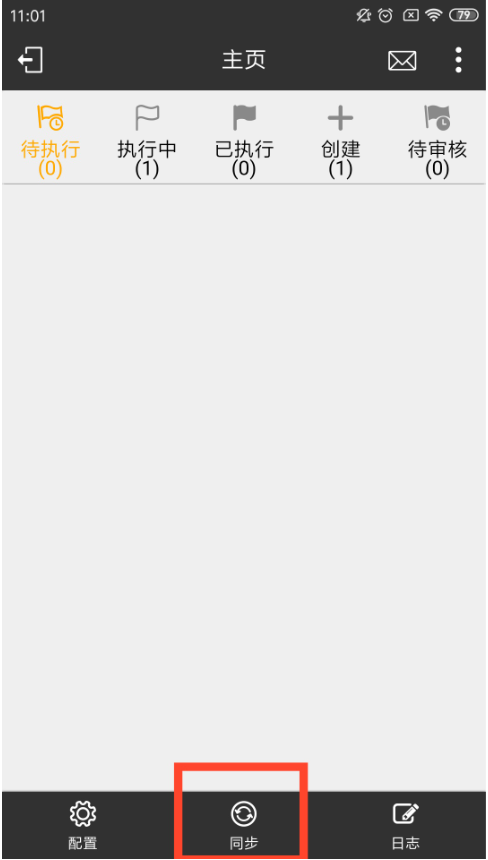
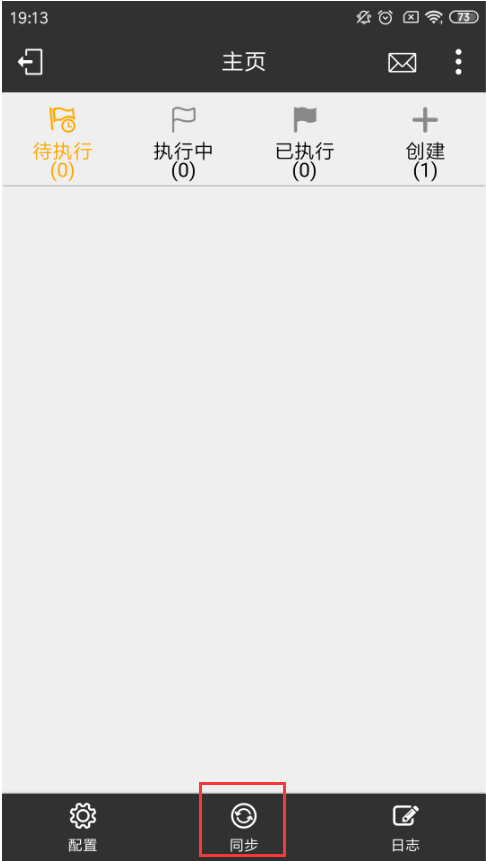
终端用户手册

Changed region(s): [[0.0309, 0.0, 1.0, 0.2116], [0.0, 0.8767, 1.0, 1.0]]

diff --git a/用户使用手册/终端/同步.md b/用户使用手册/终端/同步.md
@@ -1,10 +1,9 @@
 # 同步
 
-* 登陆完点击同步，拿到作业组
+* 登陆后如有待执行的作业组，会有提醒，点击同步，即可拿到要执行的作业组
+  ![zhongduan](./images/zhongduan11.png)
+  ![zhongduan](./images/zhongduan12.png)
 
-  ![zhongduan](./images/zhongduan6.png)
-  ![zhongduan](./images/zhongduan7.png)
-
-* 全部完成之后，有网络的情况下，选择完成并同步，无网络情况下选择完成，到有网的地方同步。
+* 执行完成之后，有网络的情况下，选择完成并同步，无网络情况下选择完成，到有网的地方同步。
 
   ![zhongduan](./images/zhongduan9.png)

diff --git a/用户使用手册/终端/日志.md b/用户使用手册/终端/日志.md
@@ -1,1 +1,9 @@
 # 日志
+
+* 用户登录之后，点击主页下方日志按钮，进入日志页面，之后点击屏幕下方按钮即可创建新的日志。
+  ![zhongduan](./images/zhongduan15.png)
+
+* 创建日志页面，点击选择资产的输入框处，可选择对应资产，或者点击扫描图标直接扫描资产，没有可不填写。日志内容处可输入日志文本，支持语音输入。同时，可拍摄照片或视频，也可以选择已有图片上传。
+  ![zhongduan](./images/zhongduan16.png)
+
+* 同步之后，日志内容就会上传至网页端。

diff --git a/用户使用手册/终端/执行.md b/用户使用手册/终端/执行.md
@@ -1,5 +1,5 @@
 # 执行
 
-* 点击同步拿到作业组之后，点击作业组名称后面的图标，进入作业组，开始作业，点击下方的下一步图标，按顺序完成巡检；
+* 点击同步拿到作业组之后，点击作业组名称后面的图标，进入作业组，开始作业，点击下方的下一步图标，直到结束，完成巡检。
   ![zhongduan](./images/zhongduan7.png)
   ![zhongduan](./images/zhongduan8.png)

diff --git a/用户使用手册/终端/主页.md b/用户使用手册/终端/主页.md
@@ -1,0 +1,7 @@
+# 主页
+
+* 主页内容主要分为作业组的状态操作栏，右上角有信息栏和功能菜单。
+* 如果是巡检权限的用户登录，作业组状态操作栏则有待执行、执行中、已执行和创建；如果是有审核权限的用户登录，则会多出一个待审核。
+  ![zhongduan](./images/zhongduan13.png)
+  ![zhongduan](./images/zhongduan14.png)
+  

diff --git a/用户使用手册/终端/消息.md b/用户使用手册/终端/消息.md
@@ -1,1 +1,9 @@
 # 消息
+
+* 用户在登录之后，可以自行订阅消息。
+  ![zhongduan](./images/zhongduan20.png)
+  ![zhongduan](./images/zhongduan21.png)
+
+* 订阅了消息之后，如有相关的消息，在右上角消息中心会有提醒，点开即可查看。
+  ![zhongduan](./images/zhongduan18.png) 
+  ![zhongduan](./images/zhongduan19.png) 

diff --git a/用户使用手册/终端/审核.md b/用户使用手册/终端/审核.md
@@ -1,1 +1,4 @@
 # 审核
+
+* 拥有审核权限的用户登录应用之后，如有待审核作业组，那么点进后即可对该作业组进行审核。
+  ![zhongduan](./images/zhongduan17.png)
